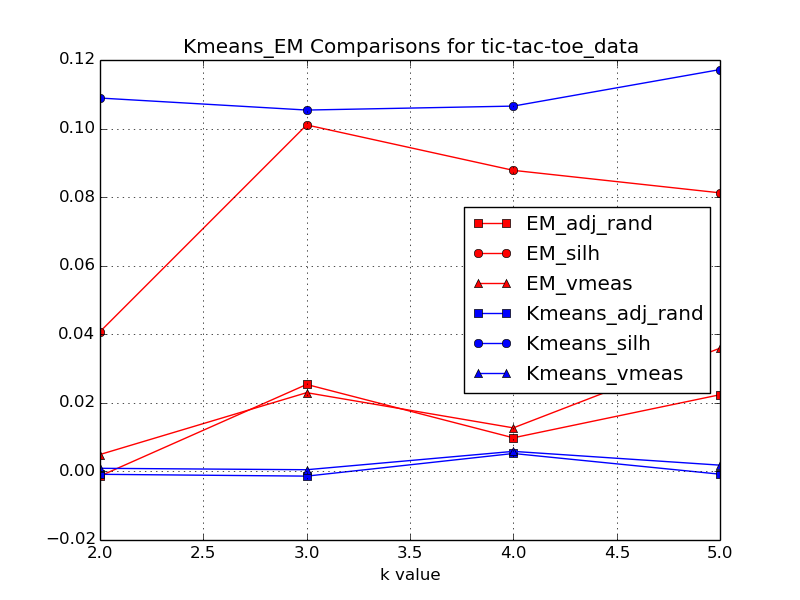
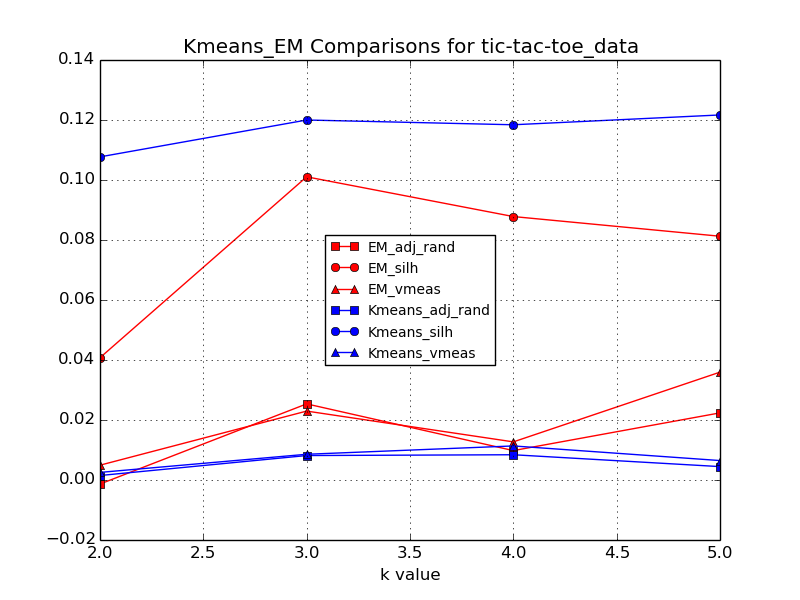
update

diff --git a/proj3/experiments.py b/proj3/experiments.py
@@ -1,8 +1,11 @@
 from data_prep import *
 from sklearn import metrics
 import matplotlib.pyplot as plt
+from matplotlib.font_manager import FontProperties
 import numpy as np
 import pandas as pd
+import pickle
+from sklearn.preprocessing import StandardScaler
 from sklearn.cluster import KMeans
 from sklearn.decomposition import PCA
 from sklearn.preprocessing import scale
@@ -45,31 +48,43 @@ def clustering(dataset, x, y, ks):
     ss_em = []
     vms_em = []
     for k in ks:
-        kmeans = KMeans(n_clusters=k, n_init=10, random_state=10)
-        kmeans.fit(x)
-        ss_km.append(metrics.silhouette_score(x, kmeans.labels_))
+        scaler = StandardScaler(with_mean=False)
+        X = scaler.fit_transform(x)
+        kmeans = KMeans(n_clusters=k)#, random_state=20, n_init=20)
+        kmeans.fit(X)
+        ss_km.append(metrics.silhouette_score(X, kmeans.labels_))
         ars_km.append(metrics.adjusted_rand_score(y, kmeans.labels_))
         vms_km.append(metrics.v_measure_score(y, kmeans.labels_))
-        em = GaussianMixture(n_components=k, n_init=10, random_state=10)
+        em = GaussianMixture(n_components=k)#, random_state=20, n_init=20)
         em.fit(x)
         pred_labels_em = em.predict(x)
         ss_em.append(metrics.silhouette_score(x, pred_labels_em))
         ars_em.append(metrics.adjusted_rand_score(y, pred_labels_em))
         vms_em.append(metrics.v_measure_score(y, pred_labels_em))
+#        fnamek = 'output/exp1_km_'+str(k)
+#        with open(fnamek, 'wb') as f:
+#            pickle.dump([kmeans, x, y], f)
+#        fnamee = 'output/exp1_em_'+str(k)
+#        with open(fnamee, 'wb') as f:
+#            pickle.dump([em, x, y], f)
+
     d = {'k value' : ks,
          'Kmeans_silh' : ss_km,
-         'Kmeans_vmeas' : vms_km,
-         'Kmeans_adj_rand' : ars_km,
          'EM_silh' : ss_em,
+         'Kmeans_vmeas' : vms_km,
          'EM_vmeas' : vms_em,
+         'Kmeans_adj_rand' : ars_km,
          'EM_adj_rand' : ars_em}
     df = pd.DataFrame(d)
     df.set_index('k value', inplace=True)
+    #print(df)
     styles = ['rs-', 'ro-', 'r^-', 'bs-', 'bo-', 'b^-']
+    fontP = FontProperties()
+    fontP.set_size('small')
     filename = dataset+"_clustering_tests"
     plt.figure()
     df.plot(title='Kmeans_EM Comparisons for '+dataset, style=styles)
-    plt.legend(loc='best')
+    plt.legend(loc='best', prop=fontP)
     plt.savefig(filename)
 
 if __name__=='__main__':
